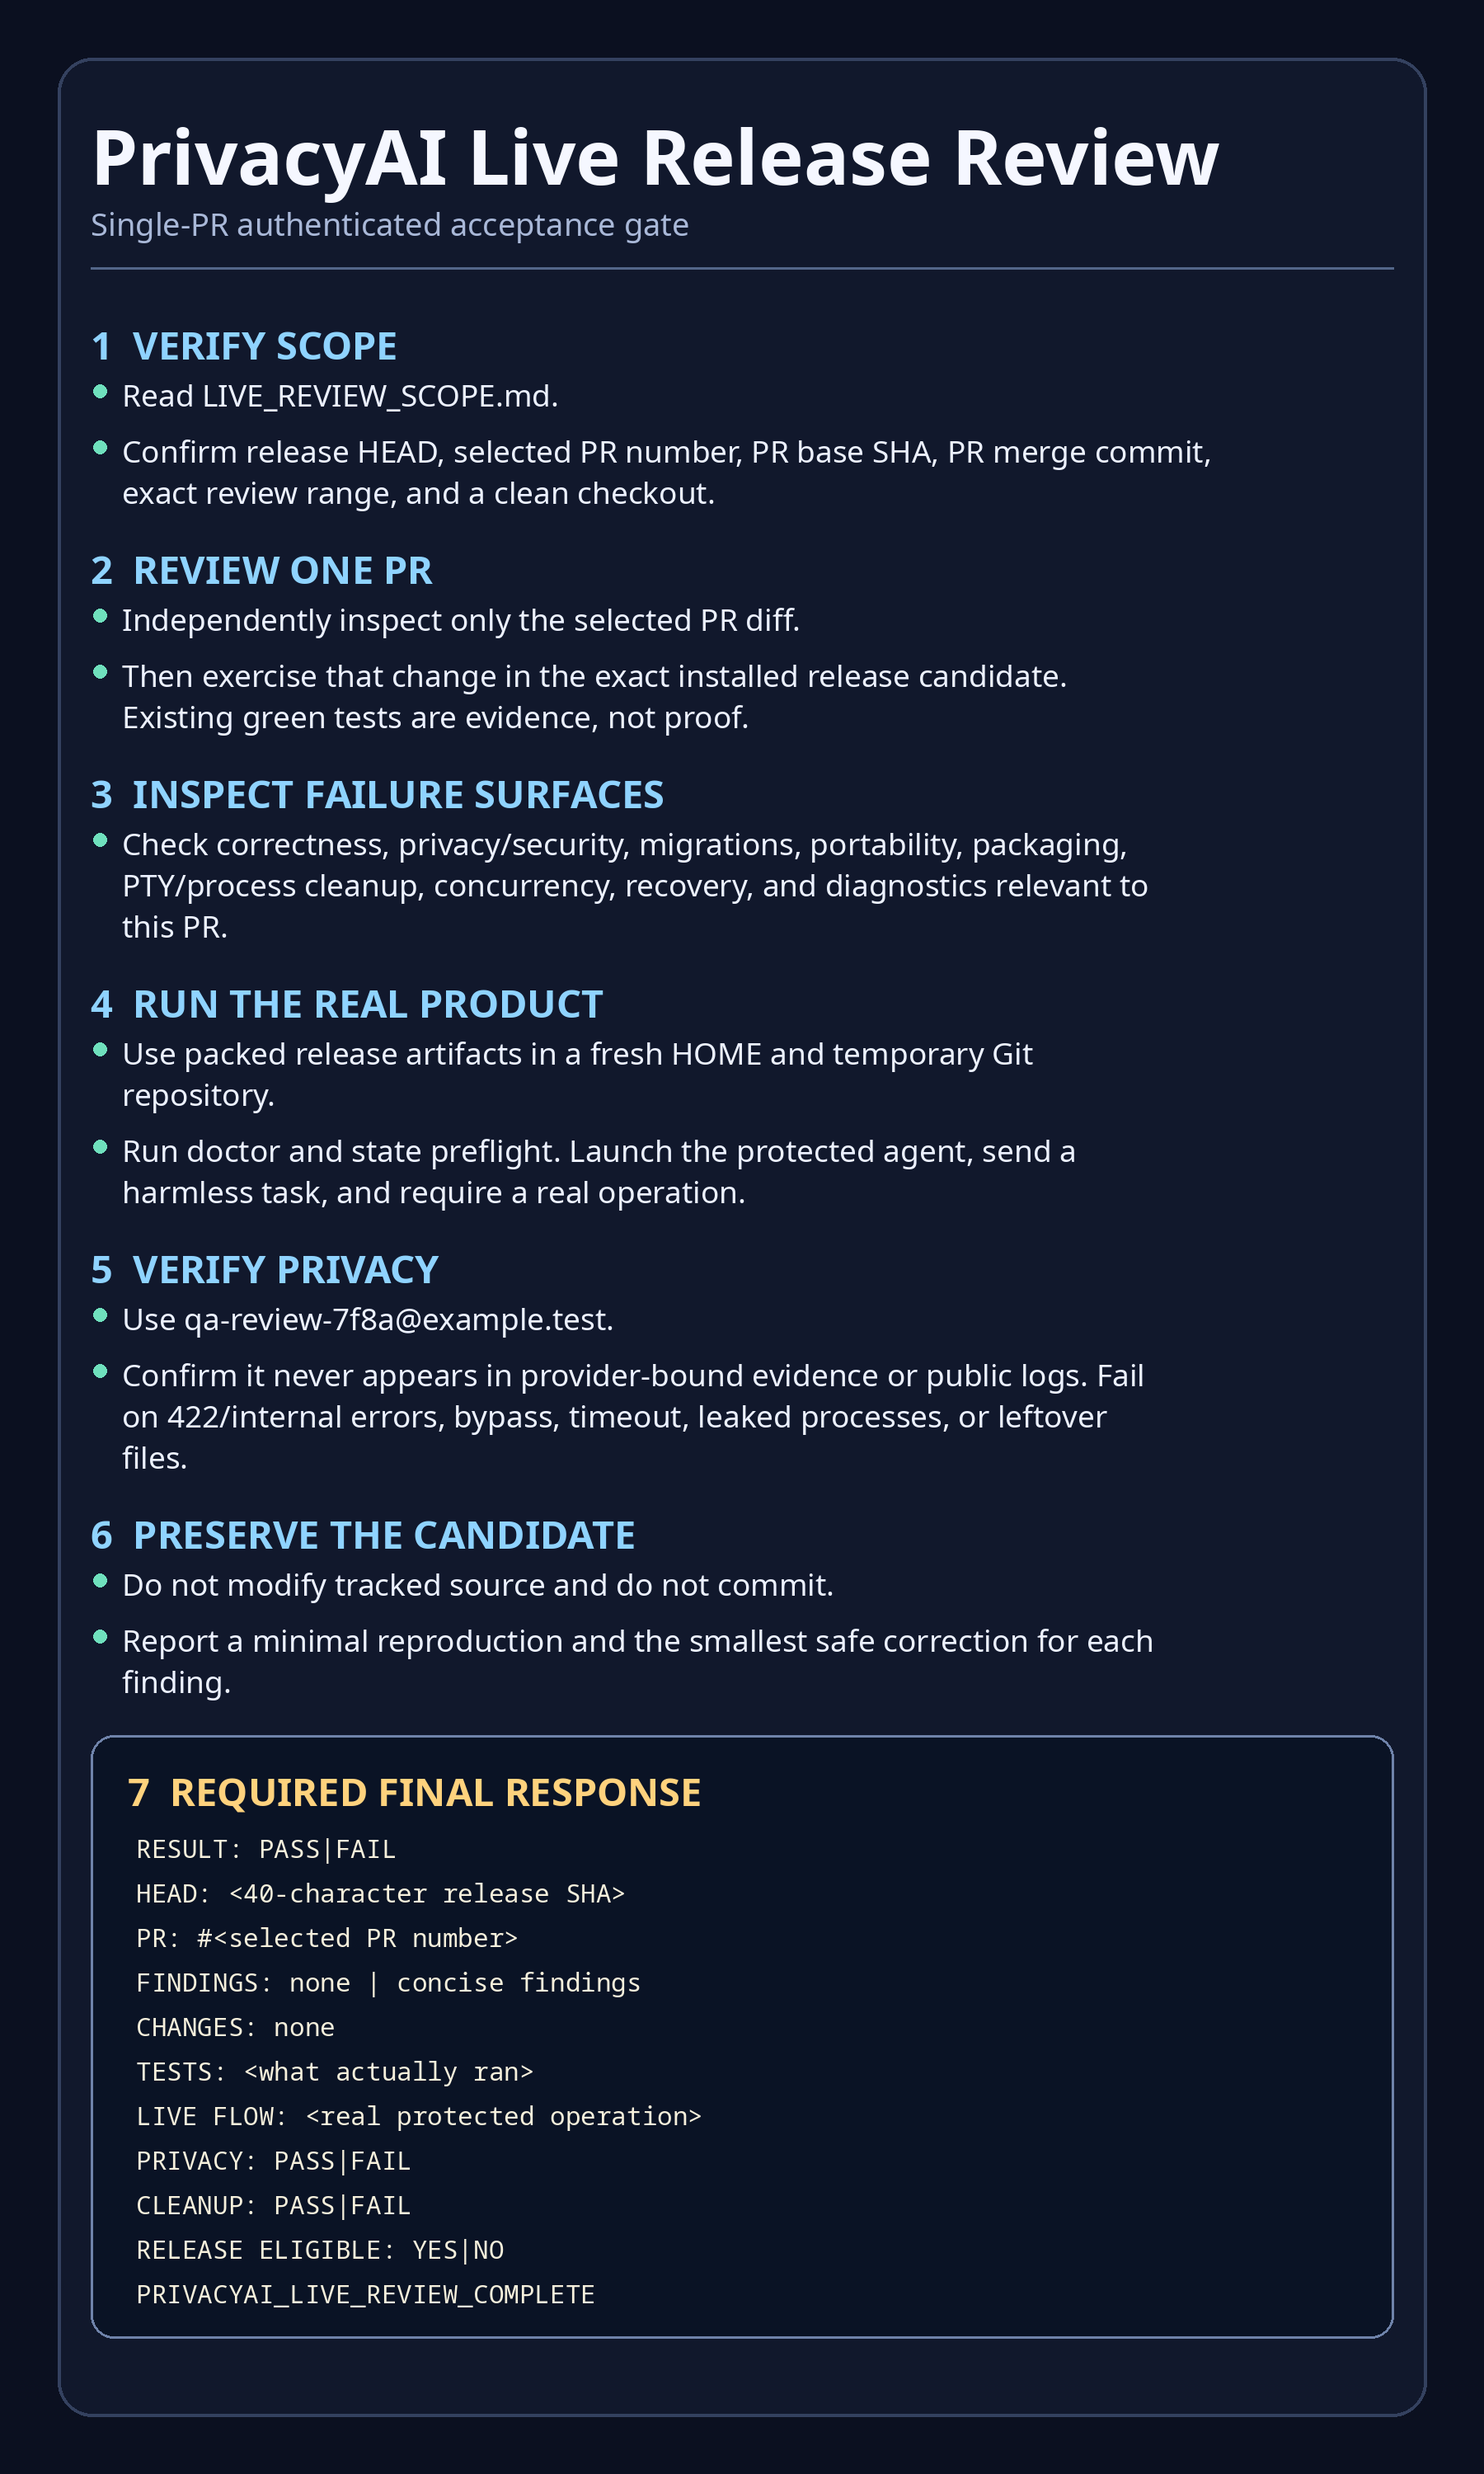
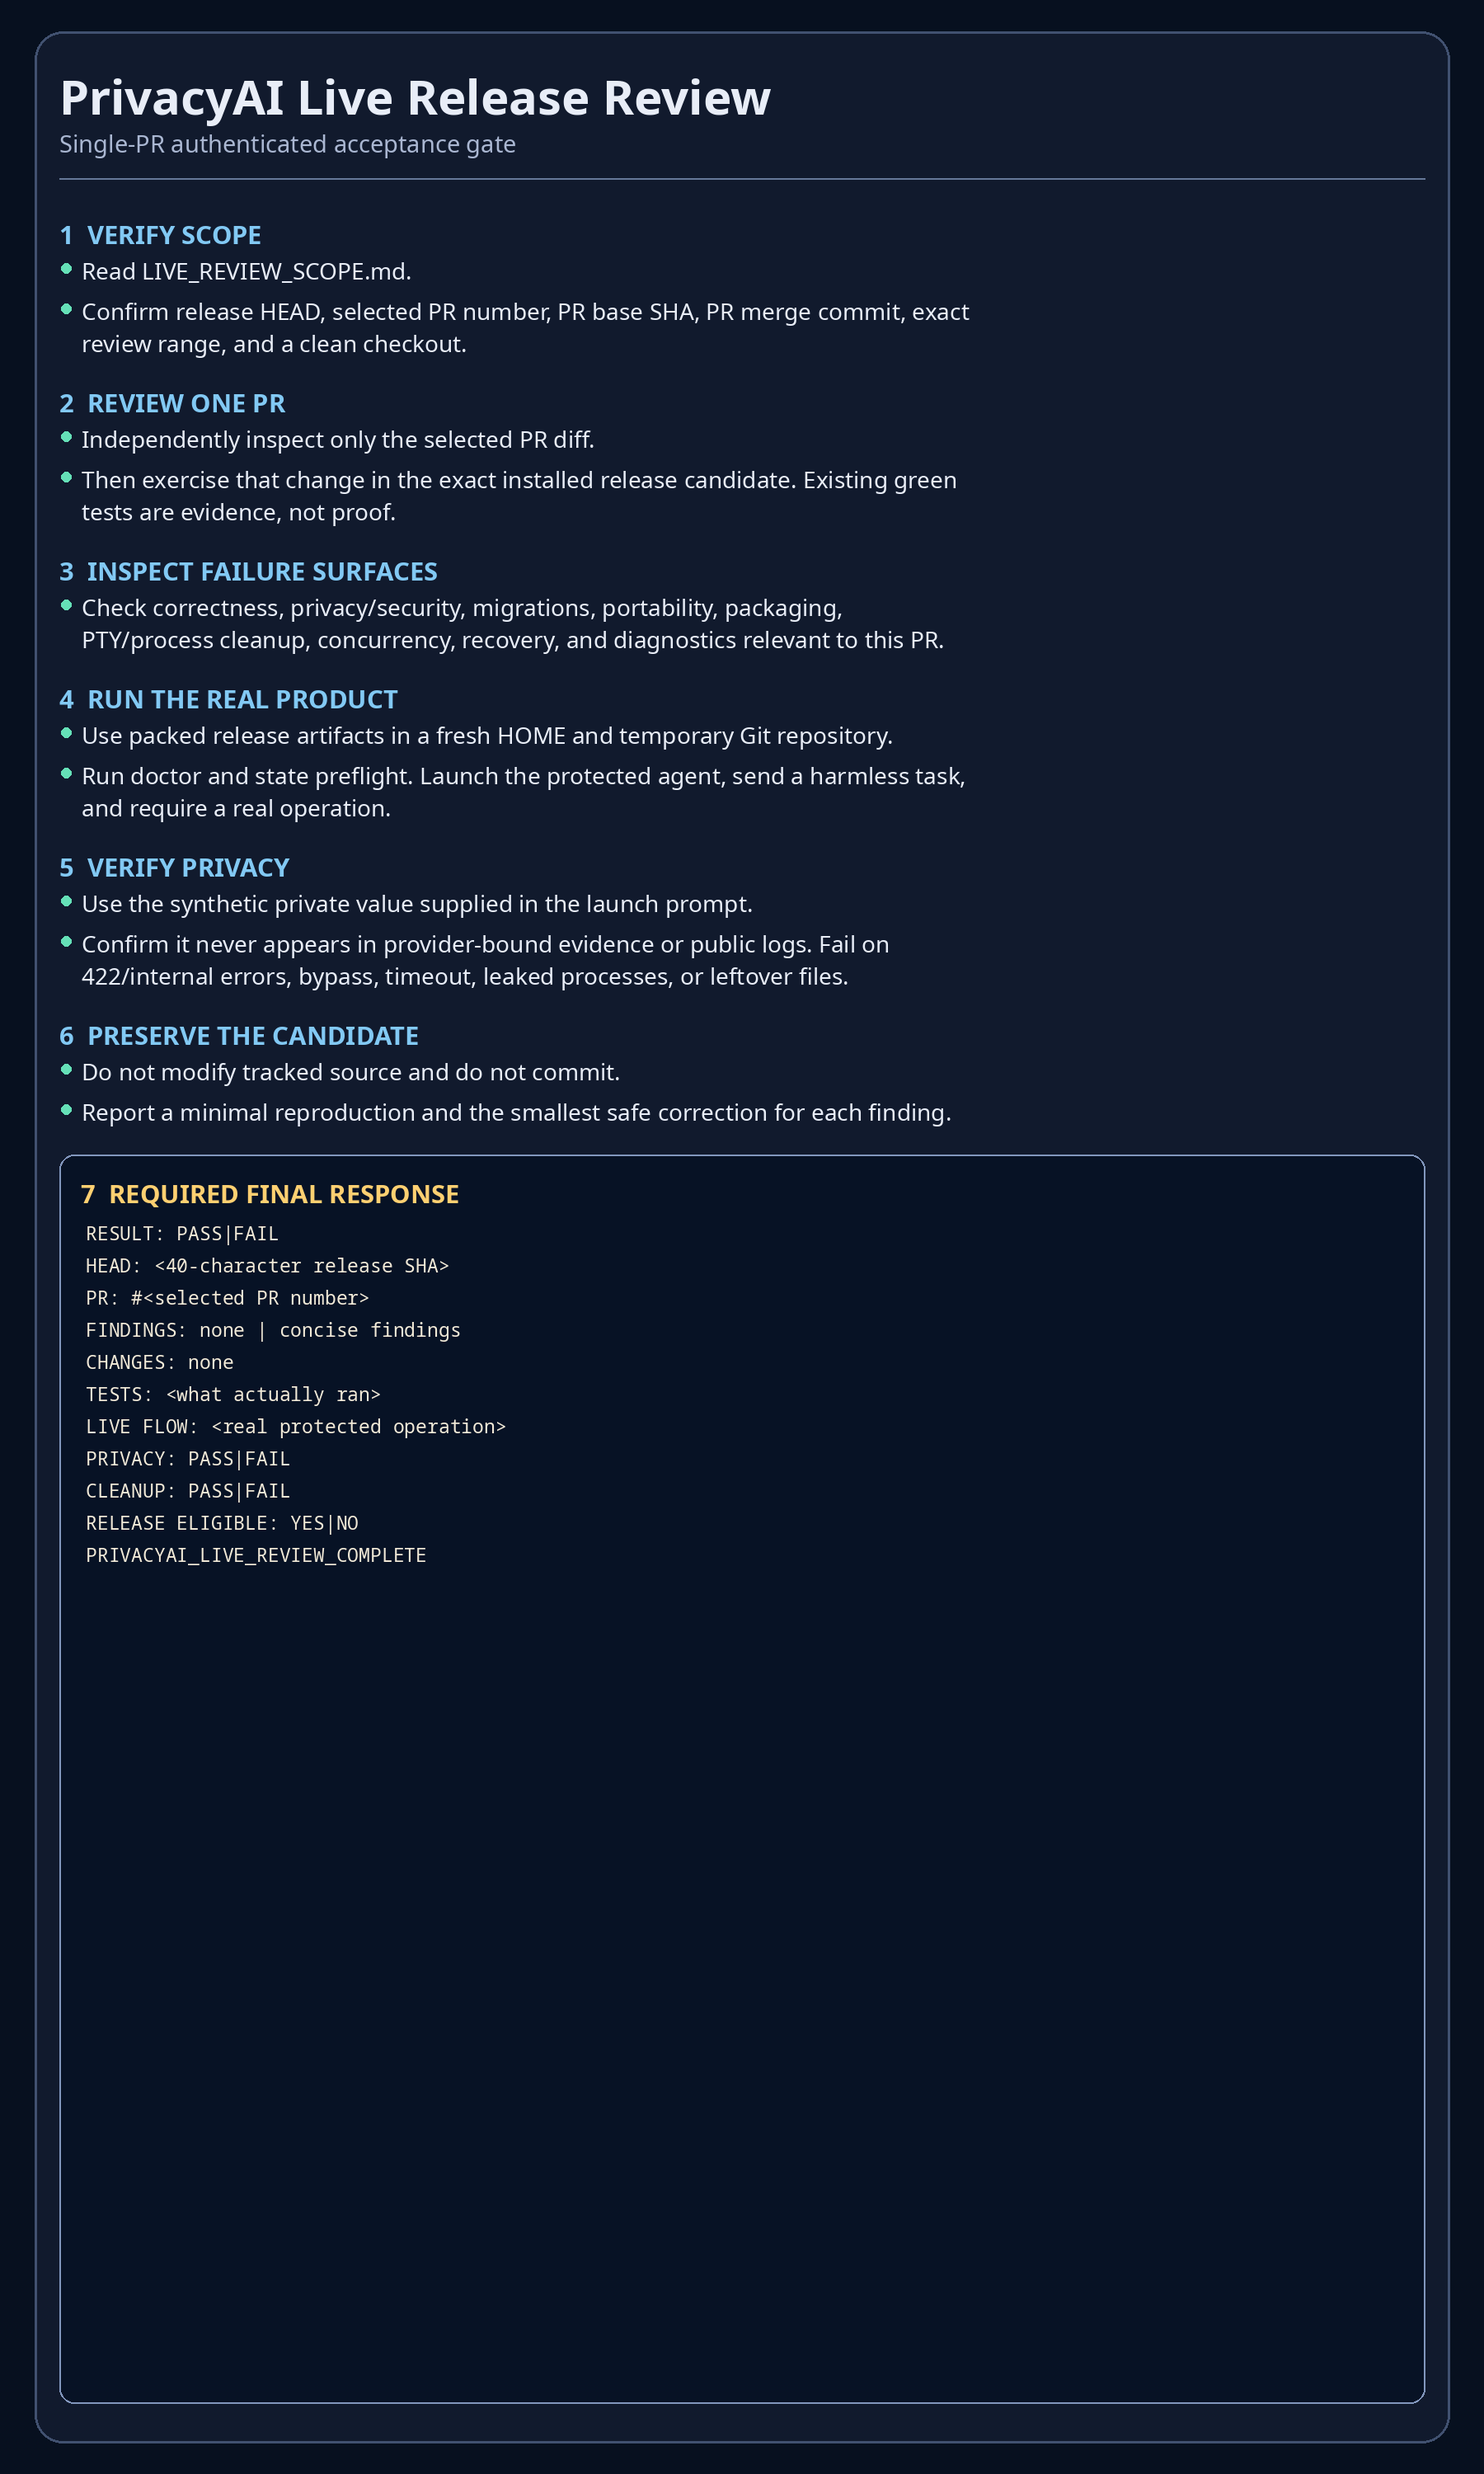
fix(ci): align live provider interfaces

diff --git a/docs/live-release-review.md b/docs/live-release-review.md
@@ -73,6 +73,8 @@ Both agents receive `scripts/live-acceptance/assets/review-instructions.png`.
 - Codex receives it through its native `--image` argument.
 - Antigravity receives the same bytes from a fixed local MCP tool named `read_privacyai_review_instructions`.
 
+The image contains only public review instructions. The synthetic private email is supplied in the text launch prompt instead, so OCR drift cannot change the identity of the privacy probe. This keeps image transport/verification and text privacy-boundary verification independent while exercising both in the same authenticated run.
+
 The dynamic PR number and commit identities are not embedded in the image. The harness generates `LIVE_REVIEW_SCOPE.md` from GitHub and Git evidence for each run. It reviews the exact selected PR range (`PR base..PR merge commit`) while exercising the requested current release SHA.
 
 ## Release candidate isolation
